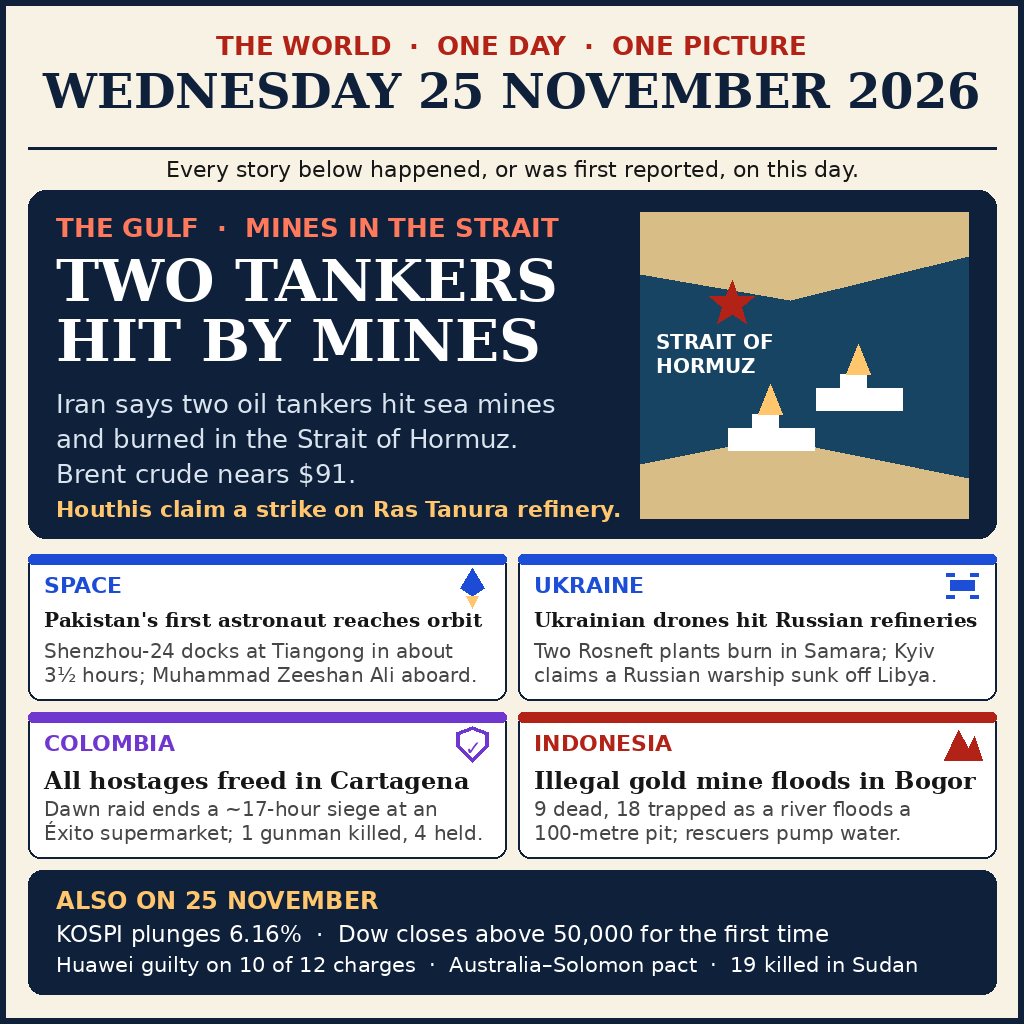
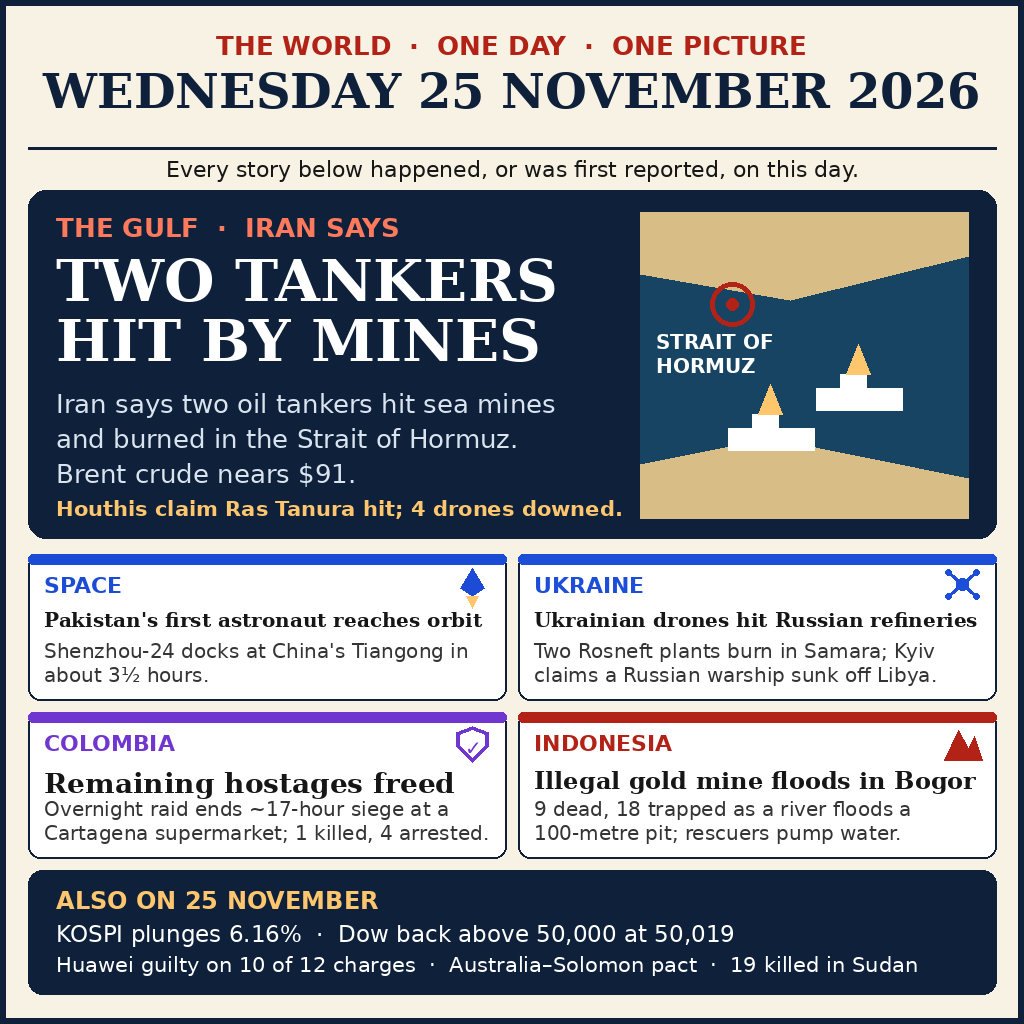
Fix facts per review: Dow, Ras Tanura, Cartagena, Tiangong

diff --git a/draw_entry.py b/draw_entry.py
@@ -17,7 +17,7 @@ CRIMSON = (178, 34, 22)
 SOFTRED = (255, 122, 92)
 GOLD = (255, 198, 110)
 BLACK = (22, 22, 22)
-GREY = (70, 70, 70)
+GREY = (52, 52, 52)
 SNOW = (255, 255, 255)
 BEACH = (216, 190, 134)
 TEAL = (13, 116, 108)
@@ -84,7 +84,7 @@ pen.text((PAGE // 2, 156), "Every story below happened, or was first reported, o
 
 # ---------- hero: Hormuz ----------
 pen.rounded_rectangle([28, 190, PAGE - 28, 538], radius=18, fill=DARK)
-pen.text((56, 212), "THE GULF  ·  MINES IN THE STRAIT", font=face(BOLD, 26),
+pen.text((56, 212), "THE GULF  ·  IRAN SAYS", font=face(BOLD, 26),
          fill=SOFTRED)
 pen.text((56, 246), "TWO TANKERS", font=face(BOLD_SERIF, 58), fill=SNOW)
 pen.text((56, 306), "HIT BY MINES", font=face(BOLD_SERIF, 58), fill=SNOW)
@@ -93,8 +93,8 @@ hero_body = ("Iran says two oil tankers hit sea mines and burned "
 body_face = face(PLAIN, 26)
 for i, ln in enumerate(flow(pen, hero_body, body_face, 520)):
     pen.text((56, 388 + i * 35), ln, font=body_face, fill=(218, 228, 238))
-pen.text((56, 496), "Houthis claim a strike on Ras Tanura refinery.",
-         font=face(BOLD, 22), fill=GOLD)
+pen.text((56, 496), "Houthis claim Ras Tanura hit; 4 drones downed.",
+         font=face(BOLD, 21), fill=GOLD)
 
 # hero map panel: strait channel, two tankers, flames, mine burst
 px0, py0, px1, py1 = 640, 212, 968, 518
@@ -115,19 +115,21 @@ pen.rectangle([px0 + 88, py0 + 216, px0 + 174, py0 + 238], fill=SNOW)
 pen.rectangle([px0 + 112, py0 + 202, px0 + 138, py0 + 216], fill=SNOW)
 pen.polygon([(px0 + 118, py0 + 202), (px0 + 130, py0 + 172),
              (px0 + 142, py0 + 202)], fill=GOLD)
-burst(pen, px0 + 92, py0 + 92, 24, CRIMSON)
+pen.ellipse([px0 + 70, py0 + 70, px0 + 114, py0 + 114], outline=CRIMSON,
+            width=5)
+pen.ellipse([px0 + 86, py0 + 86, px0 + 98, py0 + 98], fill=CRIMSON)
 
 # ---------- four stories, 2 x 2 ----------
 stories = [
     ("SPACE", ROYAL, "rocket",
      "Pakistan's first astronaut reaches orbit",
-     "Shenzhou-24 docks at Tiangong in about 3\u00bd hours; Muhammad Zeeshan Ali aboard."),
+     "Shenzhou-24 docks at China's Tiangong in about 3\u00bd hours."),
     ("UKRAINE", (29, 78, 216), "drone",
      "Ukrainian drones hit Russian refineries",
      "Two Rosneft plants burn in Samara; Kyiv claims a Russian warship sunk off Libya."),
     ("COLOMBIA", VIOLET, "shield",
-     "All hostages freed in Cartagena",
-     "Dawn raid ends a ~17-hour siege at an \u00c9xito supermarket; 1 gunman killed, 4 held."),
+     "Remaining hostages freed",
+     "Overnight raid ends ~17-hour siege at a Cartagena supermarket; 1 killed, 4 arrested."),
     ("INDONESIA", CRIMSON, "mountain",
      "Illegal gold mine floods in Bogor",
      "9 dead, 18 trapped as a river floods a 100-metre pit; rescuers pump water."),
@@ -148,11 +150,14 @@ for n, (tag, tint, glyph, head, summ) in enumerate(stories):
         pen.polygon([(ix + 14, iy + 30), (ix + 20, iy + 42), (ix + 26, iy + 30)],
                     fill=GOLD)
     elif glyph == "drone":
-        pen.rectangle([ix + 8, iy + 14, ix + 32, iy + 24], fill=tint)
-        pen.line([(ix + 4, iy + 8), (ix + 12, iy + 8)], fill=tint, width=4)
-        pen.line([(ix + 28, iy + 8), (ix + 36, iy + 8)], fill=tint, width=4)
-        pen.line([(ix + 4, iy + 30), (ix + 12, iy + 30)], fill=tint, width=4)
-        pen.line([(ix + 28, iy + 30), (ix + 36, iy + 30)], fill=tint, width=4)
+        pen.ellipse([ix + 14, iy + 12, ix + 26, iy + 24], fill=tint)
+        pen.line([(ix + 20, iy + 18), (ix + 6, iy + 6)], fill=tint, width=3)
+        pen.line([(ix + 20, iy + 18), (ix + 34, iy + 6)], fill=tint, width=3)
+        pen.line([(ix + 20, iy + 18), (ix + 6, iy + 30)], fill=tint, width=3)
+        pen.line([(ix + 20, iy + 18), (ix + 34, iy + 30)], fill=tint, width=3)
+        for rx, ry in [(6, 6), (34, 6), (6, 30), (34, 30)]:
+            pen.ellipse([ix + rx - 3, iy + ry - 3, ix + rx + 3, iy + ry + 3],
+                        fill=tint)
     elif glyph == "shield":
         pen.polygon([(ix + 20, iy + 2), (ix + 36, iy + 8), (ix + 36, iy + 22),
                      (ix + 20, iy + 38), (ix + 4, iy + 22), (ix + 4, iy + 8)],
@@ -173,7 +178,7 @@ for n, (tag, tint, glyph, head, summ) in enumerate(stories):
 # ---------- bottom ticker ----------
 pen.rounded_rectangle([28, 870, PAGE - 28, 994], radius=14, fill=DARK)
 pen.text((56, 886), "ALSO ON 25 NOVEMBER", font=face(BOLD, 24), fill=GOLD)
-pen.text((56, 920), "KOSPI plunges 6.16%  \u00b7  Dow closes above 50,000 for the first time",
+pen.text((56, 920), "KOSPI plunges 6.16%  \u00b7  Dow back above 50,000 at 50,019",
          font=face(PLAIN, 23), fill=SNOW)
 pen.text((56, 952), "Huawei guilty on 10 of 12 charges  \u00b7  Australia\u2013Solomon pact  \u00b7  19 killed in Sudan",
          font=face(PLAIN, 21), fill=SNOW)
